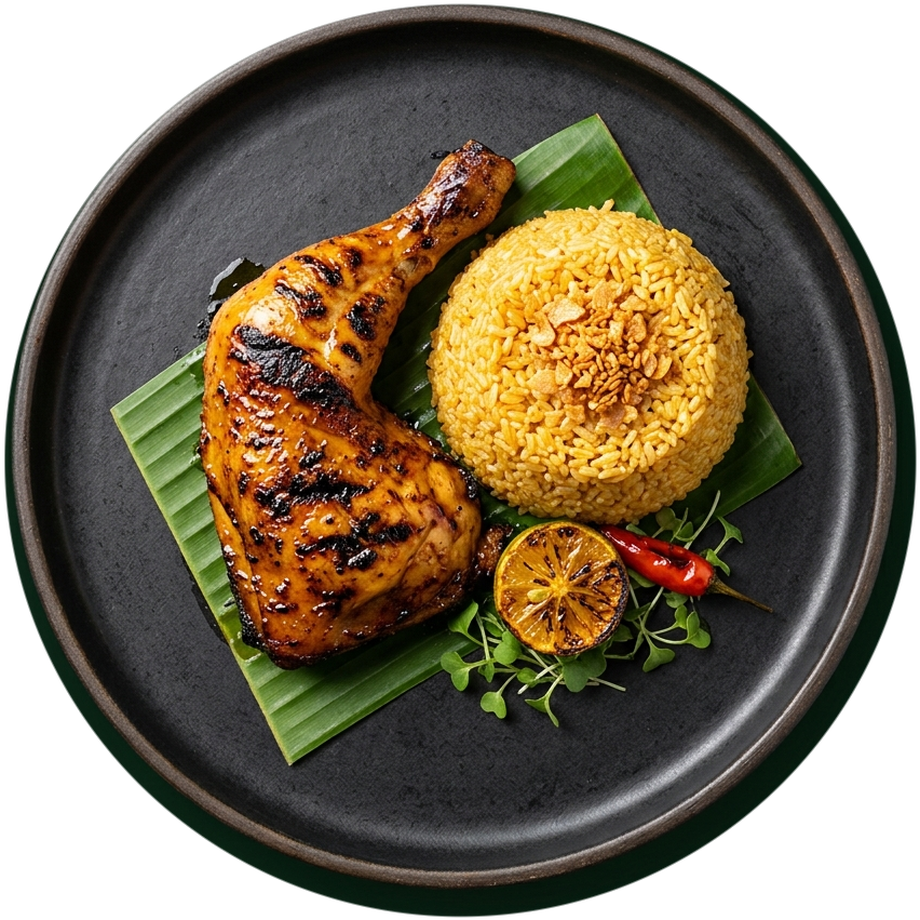
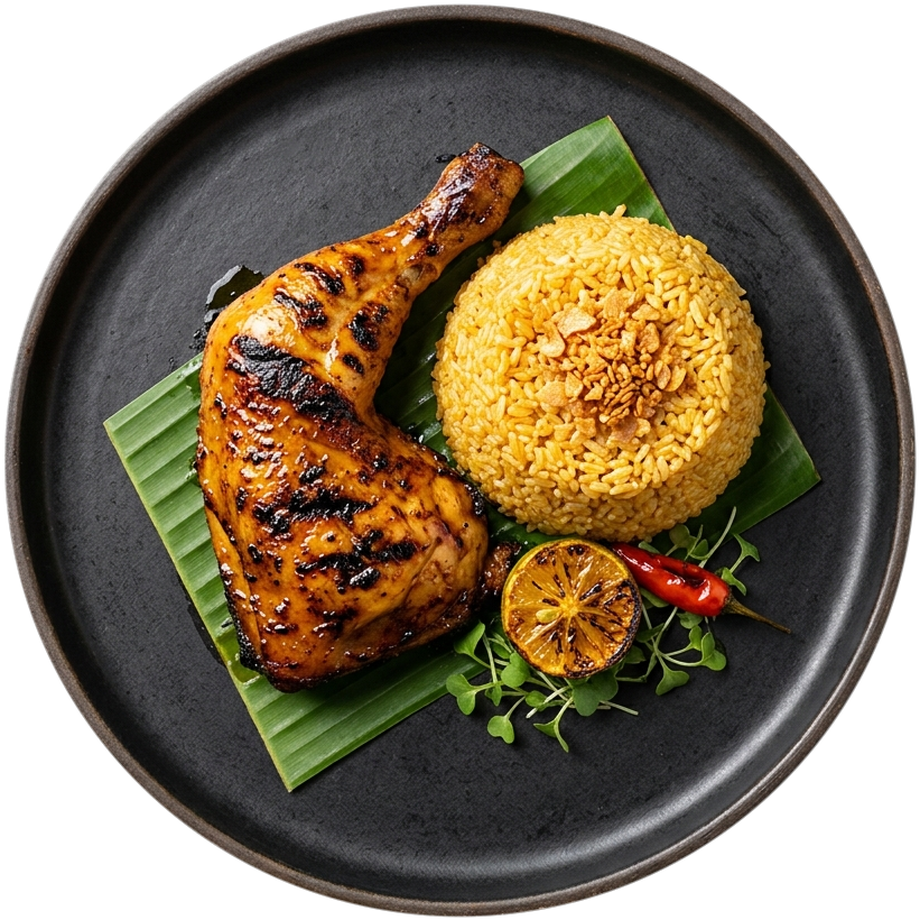
Add overhead Liempo plate, tighten plate rims, and place PIYO Sawsawan and Atchara bowls on Hero beige curve

diff --git a/src/components/HeroSection.jsx b/src/components/HeroSection.jsx
@@ -178,44 +178,79 @@ export function HeroSection({
           </div>
 
           {/* Right Overhead Circular Matte-Stoneware Dish Showcase */}
-          <div className="relative flex items-center justify-center lg:col-span-6 lg:justify-end">
+          <div className="relative flex items-center justify-center lg:col-span-6 lg:justify-center xl:justify-start xl:pl-4">
             <div
               onMouseEnter={() => setIsPaused(true)}
               onMouseLeave={() => setIsPaused(false)}
-              className="relative flex aspect-square w-[320px] items-center justify-center sm:w-[440px] lg:w-[520px] xl:w-[590px]"
+              className="relative flex aspect-square w-[310px] items-center justify-center sm:w-[420px] lg:w-[500px] xl:w-[545px]"
             >
-              {/* Subtle Floating Culinary Botanical Accents Around Plate Rim (Echoing Verdeo) */}
+              {/* Fresh Green Batwan Accent Top-Left on Dark Pine Canvas */}
               <img
                 src="./images/cansi-layers/batwan-upper.png"
                 alt=""
                 aria-hidden="true"
-                className="pointer-events-none absolute -left-3 top-[10%] z-10 h-11 w-11 -rotate-12 object-contain drop-shadow-[0_10px_14px_rgba(0,0,0,0.45)] sm:h-14 sm:w-14"
+                className="pointer-events-none absolute -left-4 top-[11%] z-10 h-10 w-10 -rotate-12 object-contain drop-shadow-[0_10px_14px_rgba(0,0,0,0.45)] sm:h-12 sm:w-12"
               />
+
+              {/* Authentic PIYO Toyo-Calamansi-Sili Sawsawan Dipping Bowl Resting on Upper-Right Warm Beige */}
+              <div
+                aria-hidden="true"
+                className="pointer-events-none absolute -right-5 top-[4%] z-20 h-22 w-22 sm:-right-12 sm:top-[6%] sm:h-28 sm:w-28 lg:-right-14 xl:-right-24 xl:h-32 xl:w-32"
+              >
+                <div className="absolute inset-2 translate-x-1.5 translate-y-2.5 rounded-full bg-black/35 blur-md" />
+                <img
+                  src="./images/hero-side-sawsawan.png"
+                  alt=""
+                  className="relative h-full w-full select-none rounded-full object-contain drop-shadow-[0_12px_18px_rgba(6,24,14,0.34)]"
+                  draggable={false}
+                />
+              </div>
+
+              {/* Authentic PIYO House Pickled Papaya Atchara Bowl Resting on Lower-Right Warm Beige */}
+              <button
+                type="button"
+                onClick={() => onSelectDishById('atchara')}
+                aria-label="Inspect PIYO House Atchara — ₱33"
+                className="group absolute -bottom-2 -right-4 z-20 h-24 w-24 cursor-pointer rounded-full outline-none focus-visible:ring-2 focus-visible:ring-[#06180E] sm:-bottom-4 sm:-right-10 sm:h-30 sm:w-30 lg:-right-14 xl:-bottom-3 xl:-right-22 xl:h-34 xl:w-34"
+              >
+                <div
+                  aria-hidden="true"
+                  className="pointer-events-none absolute inset-2 translate-x-1.5 translate-y-2.5 rounded-full bg-black/32 blur-md"
+                />
+                <img
+                  src="./images/hero-side-atchara.png"
+                  alt="PIYO House Pickled Papaya Atchara in matte black stoneware ramekin"
+                  className="relative h-full w-full select-none rounded-full object-contain drop-shadow-[0_12px_18px_rgba(6,24,14,0.34)] transition-transform duration-300 group-hover:scale-105"
+                  draggable={false}
+                />
+              </button>
+
+              {/* Fresh Halved Calamansi & Chili Accent Bridging Main Plate and Side Bowls */}
               <img
                 src="./images/cansi-layers/calamansi-top.png"
                 alt=""
                 aria-hidden="true"
-                className="pointer-events-none absolute -right-1 top-[14%] z-10 h-12 w-12 rotate-12 object-contain drop-shadow-[0_12px_18px_rgba(6,24,14,0.32)] sm:-right-4 sm:h-16 sm:w-16"
+                className="pointer-events-none absolute -right-1 top-[44%] z-20 h-10 w-10 rotate-12 object-contain drop-shadow-[0_8px_12px_rgba(6,24,14,0.28)] sm:-right-7 sm:h-12 sm:w-12 xl:-right-11"
               />
               <img
-                src="./images/cansi-layers/scallions.png"
+                src="./images/cansi-layers/sili-red.png"
                 alt=""
                 aria-hidden="true"
-                className="pointer-events-none absolute bottom-[8%] right-0 z-10 h-14 w-14 rotate-12 object-contain drop-shadow-[0_10px_16px_rgba(6,24,14,0.28)] sm:-right-3 sm:h-18 sm:w-18"
+                className="pointer-events-none absolute bottom-[26%] -right-2 z-20 hidden h-14 w-14 rotate-[28deg] object-contain drop-shadow-[0_8px_12px_rgba(6,24,14,0.26)] sm:block sm:-right-8 xl:-right-12"
               />
 
-              {/* Realistic Soft Overhead Contact Shadow Under the Circular Plate */}
+              {/* Realistic Soft Overhead Contact Shadow Under the Main Circular Plate */}
               <div
                 aria-hidden="true"
-                className="pointer-events-none absolute inset-[6%] translate-x-3 translate-y-6 rounded-full bg-black/45 blur-2xl"
+                className="pointer-events-none absolute inset-[4%] translate-x-3 translate-y-5 rounded-full bg-black/42 blur-2xl"
               />
 
-              {/* Cross-Fading Circular Overhead Stoneware Plates */}
+              {/* Cross-Fading Circular Overhead Matte-Stoneware PIYO Menu Plates */}
               <button
                 type="button"
                 onClick={() => onSelectDishById(activePlate.id)}
                 aria-label={`Inspect ${activePlate.name} — ${activePlate.price}`}
-                className="group relative h-full w-full cursor-pointer rounded-full outline-none focus-visible:ring-2 focus-visible:ring-[#DFB96F]"
+                className="group relative z-10 h-full w-full cursor-pointer rounded-full outline-none focus-visible:ring-2 focus-visible:ring-[#DFB96F]"
               >
                 {HERO_PLATES.map((plate, idx) => {
                   const isActive = idx === activeIdx;
@@ -225,7 +260,7 @@ export function HeroSection({
                       src={plate.image}
                       alt={plate.alt}
                       draggable={false}
-                      className={`absolute inset-0 h-full w-full select-none rounded-full object-contain drop-shadow-[0_26px_38px_rgba(0,0,0,0.52)] transition-all duration-700 ease-out ${
+                      className={`absolute inset-0 h-full w-full select-none rounded-full object-contain drop-shadow-[0_24px_34px_rgba(0,0,0,0.48)] transition-all duration-700 ease-out ${
                         isActive
                           ? 'scale-100 rotate-0 opacity-100 group-hover:scale-[1.025]'
                           : 'pointer-events-none scale-95 -rotate-6 opacity-0'
